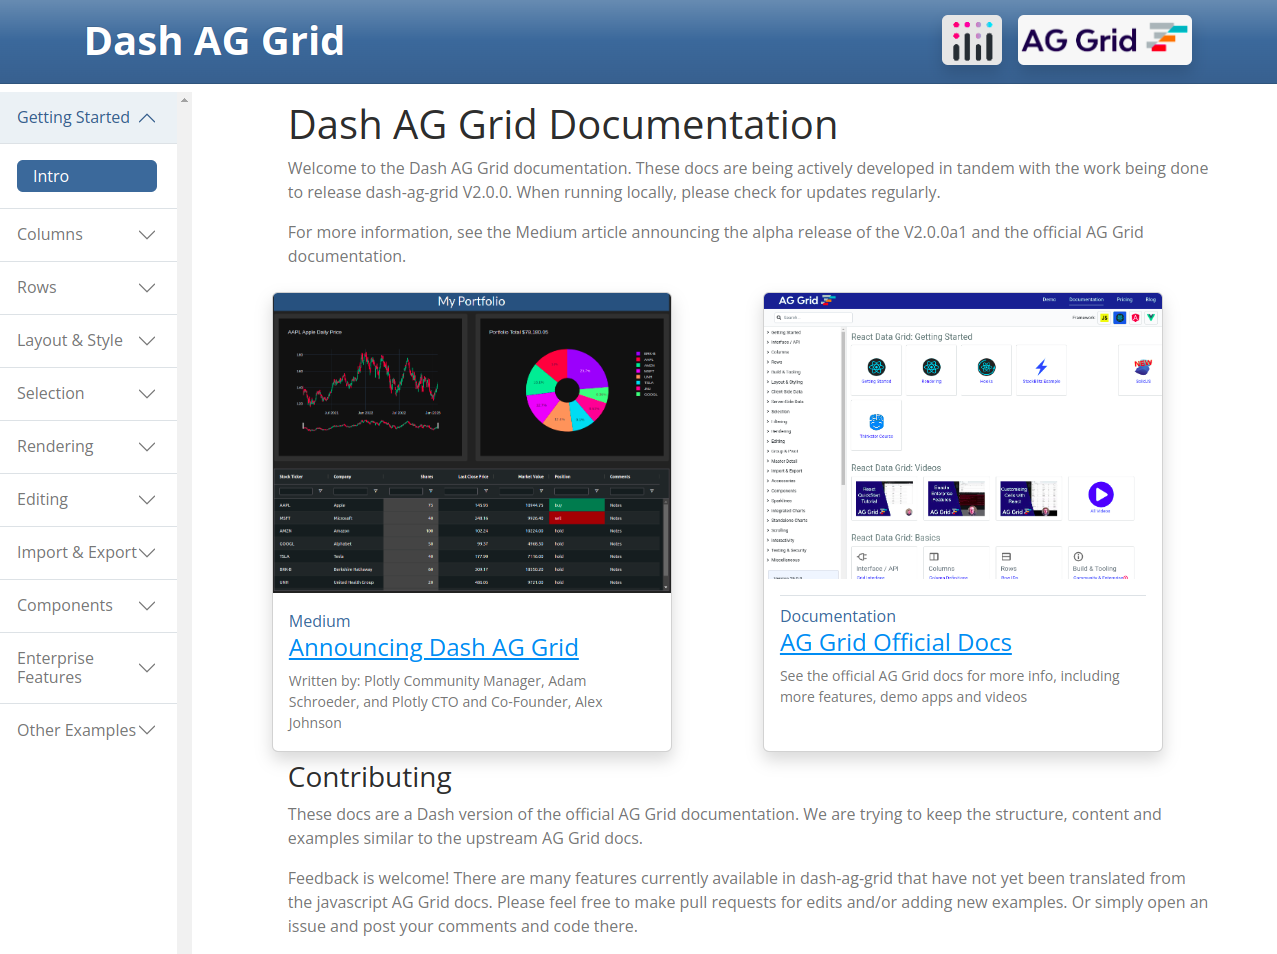
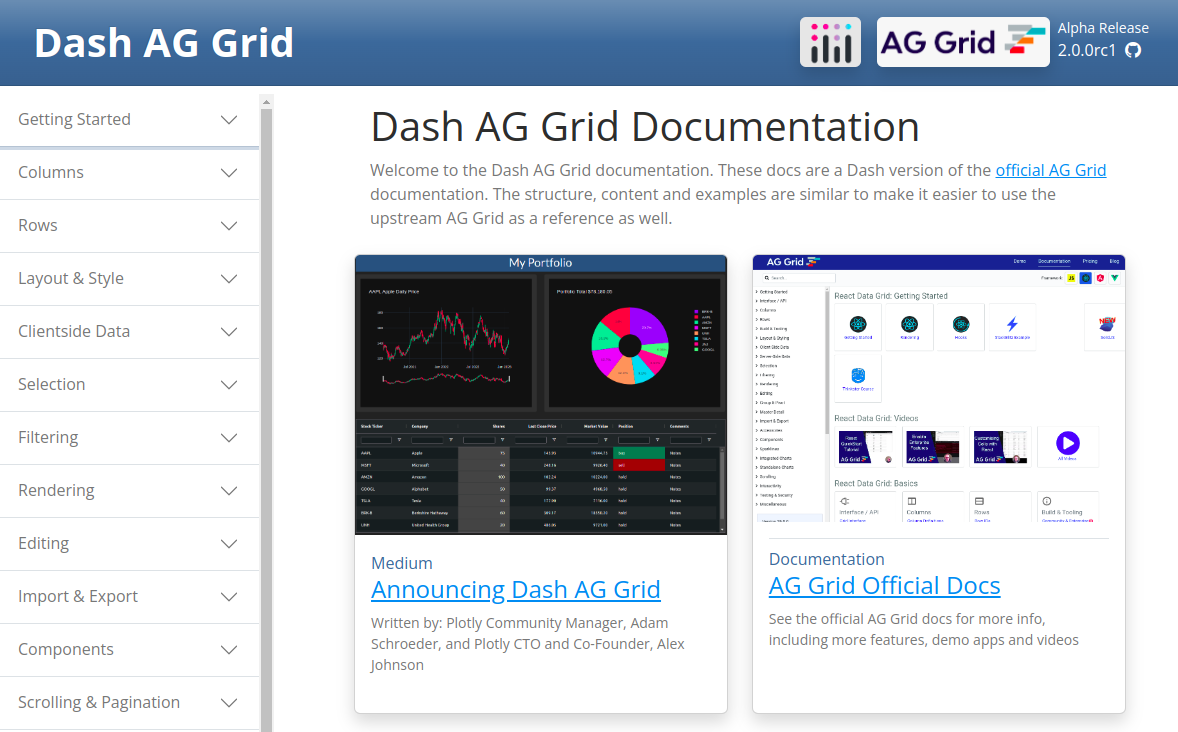
minor updates

diff --git a/docs/assets/dashAgGridFunctions.js b/docs/assets/dashAgGridFunctions.js
@@ -251,6 +251,7 @@ dagfuncs.NumberInput = class {
     this.eInput.value = params.value;
     this.eInput.style.height = 'var(--ag-row-height)';
     this.eInput.style.fontSize = 'calc(var(--ag-font-size) + 1px)';
+    this.eInput.style.borderWidth = 0;
     this.eInput.style.width = '95%';
     this.eInput.type = "number";
     this.eInput.min = params.min;

diff --git a/docs/examples/components/assets/dashAgGridFunctions.js b/docs/examples/components/assets/dashAgGridFunctions.js
@@ -78,6 +78,7 @@ dagfuncs.NumberInput = class {
     this.eInput.value = params.value;
     this.eInput.style.height = 'var(--ag-row-height)';
     this.eInput.style.fontSize = 'calc(var(--ag-font-size) + 1px)';
+    this.eInput.style.borderWidth = 0;
     this.eInput.style.width = '95%';
     this.eInput.type = "number";
     this.eInput.min = params.min;

diff --git a/docs/examples/components/cell_editor_number_input.py b/docs/examples/components/cell_editor_number_input.py
@@ -21,7 +21,7 @@ columnDefs = [
         "valueFormatter": {"function": """d3.format("($,.2f")(params.value)"""},
         "editable": True,
         "cellEditor": {"function": "NumberInput"},
-        "cellEditorParams" : {"placeholder": "enter a number"}
+        "cellEditorParams" : {"placeholder": "Enter a number"}
     },
 ]
 
@@ -56,6 +56,7 @@ dagfuncs.NumberInput = class {
     this.eInput.value = params.value;
     this.eInput.style.height = 'var(--ag-row-height)';
     this.eInput.style.fontSize = 'calc(var(--ag-font-size) + 1px)';
+    this.eInput.style.borderWidth = 0;
     this.eInput.style.width = '95%';
     this.eInput.type = "number";
     this.eInput.min = params.min;

diff --git a/README.md b/README.md
@@ -6,9 +6,12 @@ The underlying AG Grid Javascript package is a third-party software component de
 
 
 
-**Dash AG Grid is currently a prerelease**
+## Dash AG Grid is currently a prerelease
 
-We're working hard to get it ready for its initial v2.0.0 open-source release on PyPI. In the meantime if you'd like to try it out, you can clone this repo and follow the instructions in _Developing in this repo_ below to build the component and install it in development mode. At that point you can use `import dash_ag_grid as dag` in your own app. There are two apps in the `docs/` folder that you can run to learn about the component. To run these, first install the docs requirements:
+We've completed all planned breaking changes, and we're now doing the final review before the full 2.0.0 release!
+
+If you have tried previous alpha releases, please see our [Migration Guide.](https://dashaggrid.pythonanywhere.com/getting-started/migration-guide)
+
 
 
 ### Getting Started
@@ -26,8 +29,7 @@ We're working hard to get it ready for its initial v2.0.0 open-source release on
 ### See the docs app live
 https://dashaggrid.pythonanywhere.com/
 
-![image](https://user-images.githubusercontent.com/72614349/216692988-1a63b650-eedf-4c3b-946d-d1d41368a5a9.png)
-
+![docs_app](https://user-images.githubusercontent.com/72614349/233876110-4a29348c-d8e3-4114-b152-bf97f934eac8.png)
 
 ## Contributing
 
